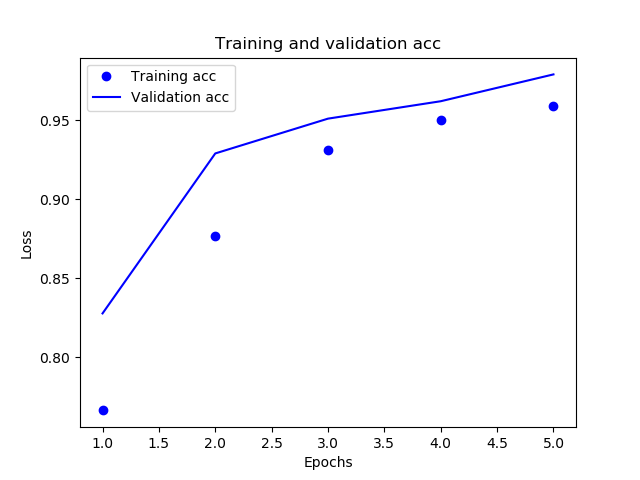
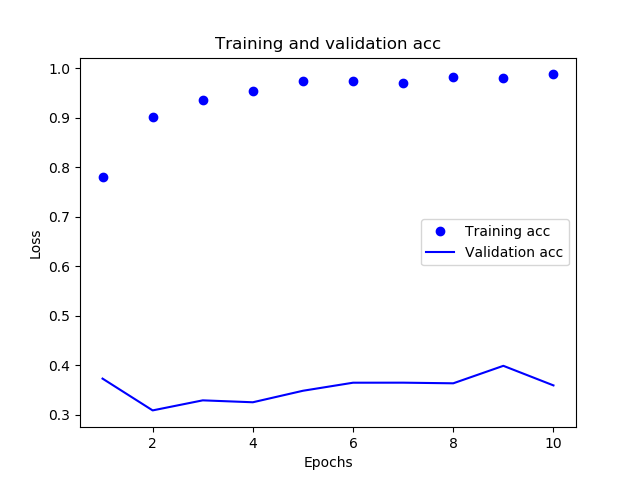
nye test af cnn

diff --git a/models/cnn/cnn_tests/customfunctions.py b/models/cnn/cnn_tests/customfunctions.py
@@ -33,7 +33,7 @@ def getfitgenerator(classifier, trainingset, testset):
     return classifier.fit_generator(trainingset,
                              samples_per_epoch=6000,
                              # integer, number of samples to process before starting a new epoch.
-                             nb_epoch=5,
+                             nb_epoch=10,
                              validation_data=testset,
                              nb_val_samples=2000)  # number of samples to use from validation generator at the end of every epoch.
 
